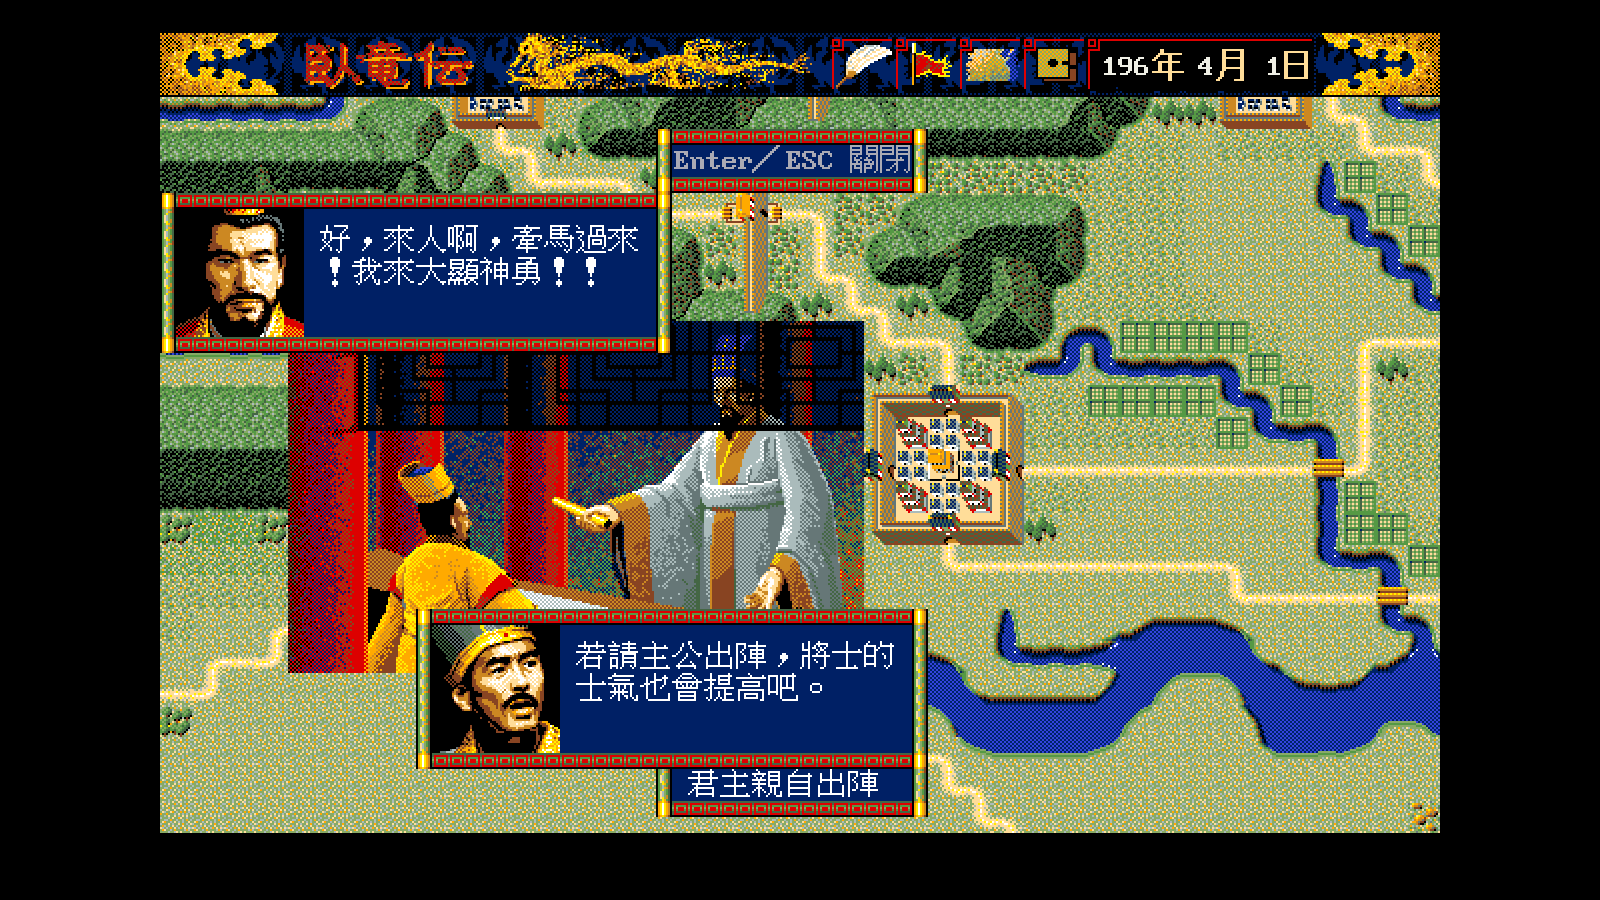
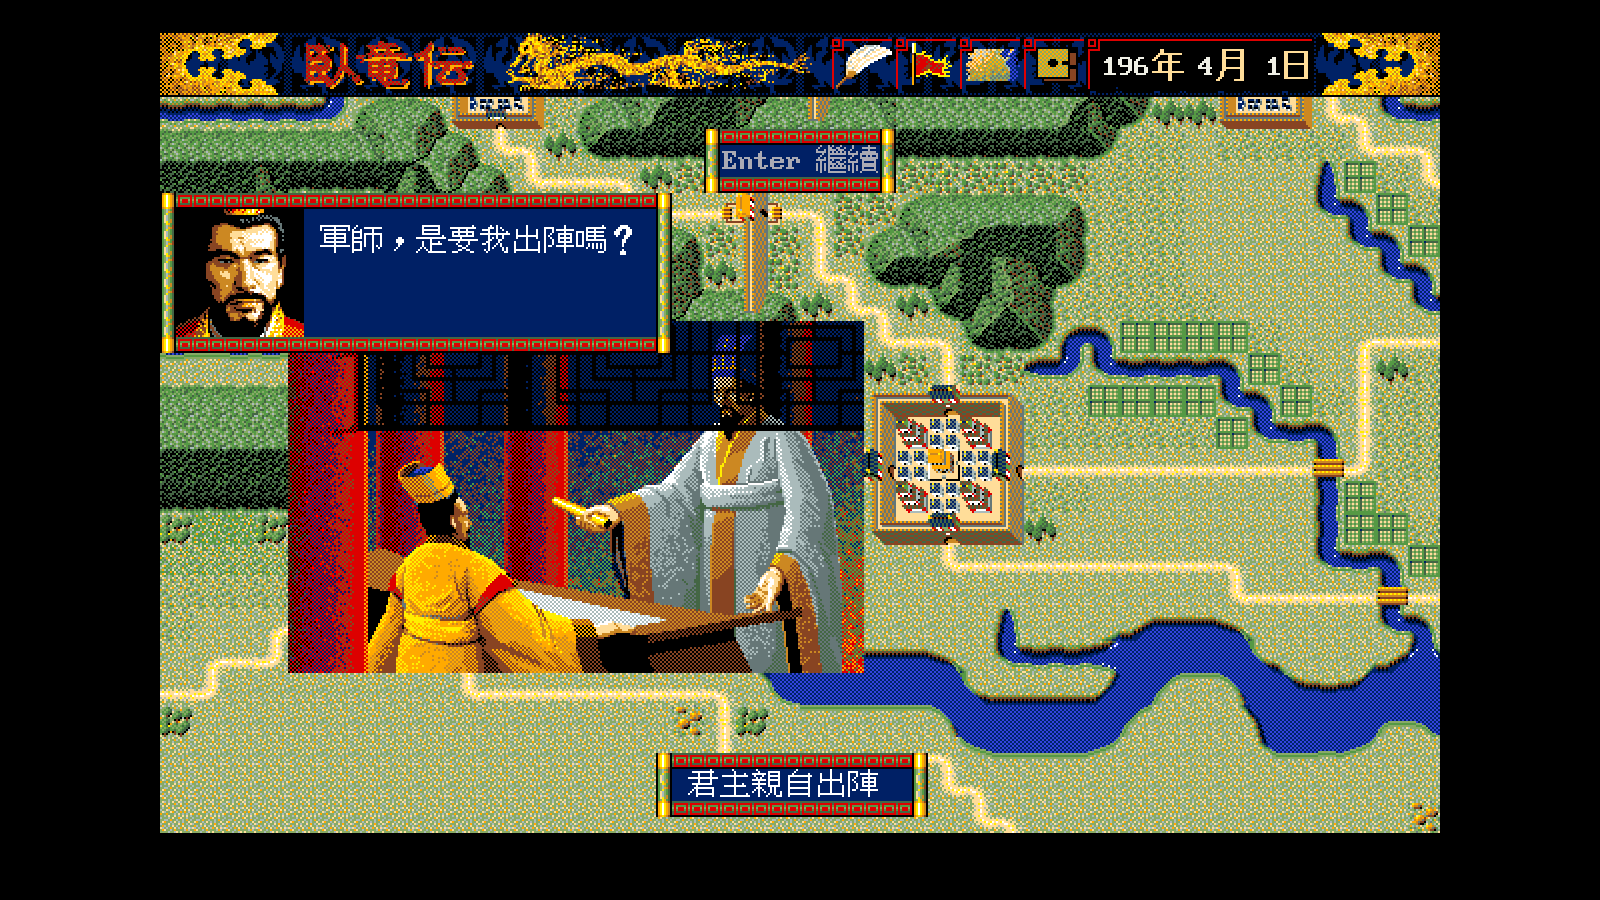
⭐ 進言的逐句節拍：等待藏在自我修改碼裡，不在我原本寫的那兩支
worklist 上寫著下手點是 `sub_10241`／`sub_102C2`。**那兩支是 BGM 的
播與停**（`docs/re/58` §1 早就記著），`sub_13B08` 只是開頭停、
貼完插圖播第 6 曲、結束再停。等待完全不在那裡。

真正的等待在 `sub_13C99` 與 `sub_13CDC` 的結尾：兩支都 `call sub_12216`，
而 `sub_12216` 做的是

    push cs:word_12239
    mov  cs:word_12239, 9090h    ; ★ EB 0F（jmp short +0Fh）→ NOP NOP
    call loc_1222B
    pop  cs:word_12239

⭐ 被跳過的那 15 個 byte 是 `mov ax,5 / mov bx,0 / far call` ＋
`mov bx,1 / far call` 的輸入輪詢。**同一支 `loc_1222B`，
patch 與不 patch 是「等到有輸入」與「把事件跑一遍」兩種行為**——
`sub_18810`（一般通知）直接呼叫它，走的是不等的那一種。

這是本專案第三處自我修改碼，判準一樣是有沒有 `mov cs:[…], imm`
寫進自己的程式碼區段（`CLAUDE.md` §7 第 28 條）。

remake 照做：`adviseSay` 只排隊，`adviseAdvance` 才寫進框裡，
Enter／Space／ESC 推進一句；還在講話時不接受選擇、選單也不畫。
順帶修掉一個現在才看得出來的問題——**還沒講話的框整個不畫**。
原版的框是 `sub_13C99`／`sub_13CDC` 在講那一句時才畫出來的，
先前那個空框把 `IVENTGRF` 的插圖遮掉了一半。

Changed region(s): [[0.25, 0.6533, 0.5938, 0.8711], [0.4062, 0.1244, 0.5938, 0.2178], [0.1875, 0.2489, 0.4062, 0.3111]]

diff --git a/cmd/wlgame/advise.go b/cmd/wlgame/advise.go
@@ -96,21 +96,45 @@ const (
 func (g *game) clearAdviseBoxes() {
 	g.adviseLordSaid = nil
 	g.adviseAdvisorSaid = nil
+	g.adviseQueue = nil
 }
 
-// adviseSay 讓其中一個框說一則 TALK。查不到就維持原來那句，
+// adviseStep 是一句待演的話。**原版每一句演完都停下來等按鍵**
+// （`sub_13C99`／`sub_13CDC` 結尾的 `sub_12216`，docs/spec/45 §1.1），
+// 所以句子要排隊，不能一次全寫進框裡。
+type adviseStep struct {
+	who   adviseSpeaker
+	index int
+}
+
+// adviseSay 把一句排進隊伍。查不到的索引直接不排——
 // **不顯示半句、也不把索引當文字**（同 talkLines 的 fail-closed）。
 func (g *game) adviseSay(who adviseSpeaker, index int) {
-	lines := g.legacyTalkLines(index, g.adviseTalkVars(), talkTextWidth)
-	if len(lines) == 0 {
+	if len(g.legacyTalkLines(index, g.adviseTalkVars(), talkTextWidth)) == 0 {
 		return
 	}
-	if who == adviseLord {
-		g.adviseLordSaid = lines
-		return
-	}
-	g.adviseAdvisorSaid = lines
+	g.adviseQueue = append(g.adviseQueue, adviseStep{who: who, index: index})
 }
+
+// adviseAdvance 演下一句，回傳還有沒有下一句可以演。
+func (g *game) adviseAdvance() bool {
+	if len(g.adviseQueue) == 0 {
+		return false
+	}
+	step := g.adviseQueue[0]
+	g.adviseQueue = g.adviseQueue[1:]
+	lines := g.legacyTalkLines(step.index, g.adviseTalkVars(), talkTextWidth)
+	if step.who == adviseLord {
+		g.adviseLordSaid = lines
+	} else {
+		g.adviseAdvisorSaid = lines
+	}
+	return true
+}
+
+// adviseTalking 回報還有句子沒演完。**還在講話時不接受任何選擇**——
+// 原版也是這樣，選單要等對話走完才出現。
+func (g *game) adviseTalking() bool { return len(g.adviseQueue) > 0 }
 
 // situation 把目前的世界狀態換成說服判定要的局勢。
 //
@@ -208,7 +232,9 @@ func (g *game) updateAdvise() bool {
 	case adviseVerdict:
 		if pressed(ebiten.KeyEscape) || pressed(ebiten.KeyEnter) ||
 			pressed(ebiten.KeySpace) {
-			g.closeAdvise()
+			if !g.adviseAdvance() {
+				g.closeAdvise()
+			}
 		}
 
 	case advisePickAlly, advisePickTarget:
@@ -247,6 +273,13 @@ func (g *game) updateAdvise() bool {
 		}
 
 	case advisePersuade:
+		if g.adviseTalking() {
+			if pressed(ebiten.KeyEnter) || pressed(ebiten.KeySpace) ||
+				pressed(ebiten.KeyEscape) {
+				g.adviseAdvance()
+			}
+			return true
+		}
 		opts := persuasion.Options(g.adviseCmd)
 		switch {
 		case pressed(ebiten.KeyArrowUp):
@@ -330,6 +363,7 @@ func (g *game) sayVerdict(base int, accepted bool) {
 		reply += 3
 	}
 	g.adviseSay(adviseLord, reply+g.playerTalkVariant())
+	g.adviseAdvance()
 }
 
 func (g *game) beginPersuasion() {
@@ -359,6 +393,7 @@ func (g *game) beginPersuasion() {
 			g.commitAdvice()
 		}
 	}
+	g.adviseAdvance() // 先演第一句，其餘等玩家按鍵
 }
 
 func (g *game) offerReason(r persuasion.Reason) {
@@ -377,6 +412,7 @@ func (g *game) offerReason(r persuasion.Reason) {
 	g.adviseSay(adviseAdvisor, base+slot+1)
 	g.adviseSay(adviseLord,
 		adviseReasonReply(base, slot, out, repeat, g.playerTalkVariant()))
+	g.adviseAdvance()
 
 	switch out {
 	case persuasion.Agreed:
@@ -530,6 +566,20 @@ func (g *game) commitAdvice() bool {
 	return true
 }
 
+// drawAdviseBoxes 畫上下兩個講話框。**還沒講話的框不畫**——
+// 原版的框是 `sub_13C99`／`sub_13CDC` 在講那一句時才畫出來的，
+// 不是一直掛在那裡的空框。
+func (g *game) drawAdviseBoxes(screen *ebiten.Image) {
+	if len(g.adviseLordSaid) > 0 {
+		g.drawLegacyTalkBox(screen, talkUpperBoxX, talkUpperBoxY,
+			talkBoxW, talkBoxH, g.adviseLordSaid, g.playerLordPortrait())
+	}
+	if len(g.adviseAdvisorSaid) > 0 {
+		g.drawLegacyTalkBox(screen, talkLowerBoxX, talkLowerBoxY,
+			talkBoxW, talkBoxH, g.adviseAdvisorSaid, g.playerAdvisorPortrait())
+	}
+}
+
 // drawAdvise 畫進言流程。
 func (g *game) drawAdvise(screen *ebiten.Image) {
 	white := color.RGBA{240, 240, 230, 255}
@@ -556,11 +606,12 @@ func (g *game) drawAdvise(screen *ebiten.Image) {
 	case adviseVerdict:
 		// 第四、五項沒有說服迴圈，畫面就是 `sub_13B08` 的三句。
 		g.drawIventScene(screen, 0)
-		g.drawLegacyTalkBox(screen, talkUpperBoxX, talkUpperBoxY,
-			talkBoxW, talkBoxH, g.adviseLordSaid, g.playerLordPortrait())
-		g.drawLegacyTalkBox(screen, talkLowerBoxX, talkLowerBoxY,
-			talkBoxW, talkBoxH, g.adviseAdvisorSaid, g.playerAdvisorPortrait())
-		g.drawLegacyHint(screen, "Enter／ESC 關閉", talkUpperBoxY-4*chrome.Tile)
+		g.drawAdviseBoxes(screen)
+		hint := "Enter／ESC 關閉"
+		if g.adviseTalking() {
+			hint = "Enter 繼續"
+		}
+		g.drawLegacyHint(screen, hint, talkUpperBoxY-4*chrome.Tile)
 
 	case advisePersuade:
 		// 原版的說服畫面（docs/spec/45 §1）：`IVENTGRF` 第 0 頁的插圖，
@@ -573,6 +624,10 @@ func (g *game) drawAdvise(screen *ebiten.Image) {
 			talkBoxW, talkBoxH, g.adviseAdvisorSaid, g.playerAdvisorPortrait())
 		// 提示放在橫幅與上框之間，不要壓到畫面底部的事件視窗。
 		hintY := talkUpperBoxY - 4*chrome.Tile
+		if g.adviseTalking() {
+			g.drawLegacyHint(screen, "Enter 繼續", hintY)
+			return
+		}
 		if g.sess == nil {
 			g.drawLegacyHint(screen, "ESC 關閉", hintY)
 			return

diff --git a/cmd/wlgame/advise_test.go b/cmd/wlgame/advise_test.go
@@ -92,6 +92,7 @@ func TestAdviseLinesComeFromTalkDat(t *testing.T) {
 	for _, c := range adviseCommands {
 		g.clearAdviseBoxes()
 		g.adviseSay(adviseAdvisor, adviseTalkBase(c)+3)
+		g.adviseAdvance()
 		line := strings.Join(g.adviseAdvisorSaid, "")
 		if line == "" {
 			t.Fatalf("%v 的進言句是空的", c)
@@ -262,6 +263,16 @@ func TestAdviseSceneLinesGoToTheRightBox(t *testing.T) {
 	g.clearAdviseBoxes()
 	g.adviseSay(adviseLord, base) // #86「{4}啊，是怎麼了？」
 	g.adviseSay(adviseAdvisor, base+3)
+	// ⭐ 排隊之後畫面上還是空的——**原版每一句都要等按鍵**。
+	if len(g.adviseLordSaid) != 0 || len(g.adviseAdvisorSaid) != 0 {
+		t.Fatal("還沒推進就把句子寫進框裡了")
+	}
+	if !g.adviseAdvance() || !g.adviseAdvance() {
+		t.Fatal("排了兩句卻推不動兩次")
+	}
+	if g.adviseTalking() {
+		t.Error("兩句都演完了還說在講話")
+	}
 	lord, advisor := strings.Join(g.adviseLordSaid, ""), strings.Join(g.adviseAdvisorSaid, "")
 	if lord == "" || advisor == "" {
 		t.Fatalf("兩個框要各有一句：上 %q 下 %q", lord, advisor)
@@ -271,6 +282,7 @@ func TestAdviseSceneLinesGoToTheRightBox(t *testing.T) {
 	}
 	// 君主再說一句：上框換掉，下框不動。
 	g.adviseSay(adviseLord, adviseReplyIndex(base, persuasion.Agree, 0))
+	g.adviseAdvance()
 	if got := strings.Join(g.adviseLordSaid, ""); got == lord {
 		t.Errorf("上框沒有換句：%q", got)
 	}
@@ -279,6 +291,7 @@ func TestAdviseSceneLinesGoToTheRightBox(t *testing.T) {
 	}
 	// 索引查不到時保留原句，不顯示半句（fail-closed）。
 	g.adviseSay(adviseLord, 1<<20)
+	g.adviseAdvance()
 	if len(g.adviseLordSaid) == 0 {
 		t.Error("查不到的索引把上框清空了")
 	}
@@ -346,12 +359,20 @@ func TestVerdictLinesGoToTheRightBoxes(t *testing.T) {
 	if g.advise != adviseVerdict {
 		t.Errorf("階段 = %d，要 adviseVerdict", g.advise)
 	}
+	// sayVerdict 排三句、先演第一句；剩下兩句要按鍵才會出來。
+	if !g.adviseTalking() {
+		t.Fatal("三句應該還沒演完")
+	}
+	for g.adviseAdvance() {
+	}
 	yes := strings.Join(g.adviseLordSaid, "")
 	advisor := strings.Join(g.adviseAdvisorSaid, "")
 	if yes == "" || advisor == "" {
 		t.Fatalf("兩個框要各有一句：上 %q 下 %q", yes, advisor)
 	}
 	g.sayVerdict(adviseSortieTalkBase, false)
+	for g.adviseAdvance() {
+	}
 	if no := strings.Join(g.adviseLordSaid, ""); no == yes {
 		t.Errorf("接受與拒絕拿到同一句：%q", no)
 	}

diff --git a/cmd/wlgame/main.go b/cmd/wlgame/main.go
@@ -224,6 +224,9 @@ type game struct {
 	// adviseNode 是遷都選到的據點（進言第四項）。
 	adviseNode int
 
+	// adviseQueue 是還沒演到的句子（docs/spec/45 §1.1）。
+	adviseQueue []adviseStep
+
 	// 進言畫面上兩個框各自的最新一句（docs/spec/45 §1）。
 	adviseLordSaid    []string // 上框：君主
 	adviseAdvisorSaid []string // 下框：軍師，也就是玩家自己

diff --git a/CONTEXT.md b/CONTEXT.md
@@ -144,6 +144,7 @@ M6 的版面幾何對得上原版，但畫的內容還有缺。**
 | **⭐⭐ 好戰等級找到了：勢力記錄 `+0x28`** | 0–15，呂布 15、曹操 14、劉備 4、劉表 1、劉禪 0。**同一君主跨劇本是常數**，且對上說明書點名的兩個例子。連帶解出勢力表 22 欄位、據點表 `+1`/`+26`、武將表 `+28`。`docs/formats/08` §1.5 |
 | **⭐⭐ 官員的效果在「每小時」不是「每月」** | 先前在月結路徑裡 grep 不到，因為找錯地方。外交官 `sub_13E8E` 已全解並實作（`internal/rules/diplomacy`）：12.5% 動作率、消耗 `23−政治`、成功條件 `rand(0..15) ≤ 政治`、成功 +1 上限 100。**交友度 ＝ 0–100 ＋ 最高位元的交戰旗標** |
 | **⭐ 勢力 `+0x19` ＝ 侵攻目標，財政撐不住就自動取消** | 門檻 `資金>>8 < 據點數×8+24`，與**據點數**掛鉤。這解釋了「敵が疲弊中」為什麼是提停戰的好時機——**疲弊的敵人在機制上已經停止侵攻** |
+| **⭐ 進言的逐句節拍也照原版了** | `docs/spec/45` §1.1。`sub_13C99`／`sub_13CDC` 每一句畫完都 `call sub_12216`，而那一支用**自我修改碼**把 `loc_1222B` 裡的 `jmp short`（`EB 0F`）換成兩個 NOP，打開輸入輪詢——**同一支常式，patch 與不 patch 是「等」與「不等」兩種行為**。remake 改成句子排隊、按鍵推進，還沒講話的框整個不畫。⛔ 先前 worklist 把下手點寫成 `sub_10241`／`sub_102C2`，那兩支是 **BGM 的播與停**（`docs/re/58`）|
 | **⭐⭐ 進言的五項全接上了** | `docs/spec/49`、`docs/playtest/35`。第四項「遷都」的判定（`capital.AcceptRelocation`）先前**寫好了卻沒有任何呼叫端**，第五項「請求君主出陣」整項沒有。兩項都不走說服迴圈——`sub_13B08` 只有三句（上框君主 → 下框軍師 → 上框定案）。出陣的兩道閘：資金 ≥ (15 − 好戰) × 1,024 **而且**預備兵總和 ≥ 600 點；過了就用君主的武將記錄自動編一支**非委任**的軍團。選單五列改讀 `TALK.DAT` #77 |
 | **⭐ 據點被攻陷時內政官會被遣回** | `docs/spec/48`。`sub_14D63` 只動兩個欄位（據點的內政官槽清成 `0xFF`、那名武將的「出陣中」歸零），跳兩則訊息。⚠ 第二則的 `cx = 0x1A6` 是**組編號不是索引**——實際落在 534–541，而 `0x1A6` 的十進位正好是 422、#422 又剛好是「．．．．」，**誤讀在語意上也講得通**（`docs/re/66` §4.1）|
 | **⭐ 據點易主之後守軍會調頭** | `docs/spec/47`。原版開打前用 `sub_14C72` 收「同一格、同一勢力、還活著」的軍團（最多 127 支），只派最強的出戰；城丟了之後 `sub_14DA4` 把整份名單改成「回家的下一站」，退不了的走 `sub_1291A`。`capture` 的順序也照 `sub_14CF3` 排：換旗 → 據點數 −1 → 遷都 → 調頭 → 滅亡 → 新主 +1 |
@@ -394,8 +395,7 @@ M6 的版面幾何對得上原版，但畫的內容還有缺。**
 |---:|---|---|---|
 | **1** | **視窗底紋的 96 列排法** | 點陣**找到了**：`ICONGRF.DAT` 最後 128 byte（段 3 `+0x2320`），32 寬 1bpp，逐列對螢幕 94–99%（`docs/formats/03` §5.5）。但螢幕上的垂直週期是 96，而 24／32 列平鋪與各種磚砌都只有 63–83% 找**取用端**——`KI.EXE` 裡已經排除三條路（沒有立即值、`sub_1F888` 的三個呼叫點都不在段尾、`word_10D50` 的五個用法沒有 `si=1980h`）。剩下掃另外七個執行檔，或對那 128 byte 做動態讀取追蹤 |
 
-| **2** | **進言沒有逐句節拍** | 原版三句（上框 → 下框 → 上框）**要按鍵才往下走**，remake 直接顯示最後的狀態。這是唯一還看得出來的進言差異（`docs/spec/45` §3.1、`docs/playtest/35` §3）| 讀 `sub_10241`／`sub_102C2`——`sub_13B08` 每一句前後各呼叫一次，等待邏輯應該在那裡 |
-| **3** | **進言選單不在原版的位置** | 原版的五項選單在 **(0, 64)**（`sub_16224` 的 `dx = 400h`，粗格 → 像素見 `docs/spec/45` §2.1），而且是指令樹的一層；remake 用自己的小視窗畫在 (40, 60) | 四個階層選單的座標都已經解出來（`docs/spec/45` §2.1 那張表），照著擺就好；要不要一併重做指令樹是另一回事 |
+| **2** | **進言選單不在原版的位置** | 原版的五項選單在 **(0, 64)**（`sub_16224` 的 `dx = 400h`，粗格 → 像素見 `docs/spec/45` §2.1），而且是指令樹的一層；remake 用自己的小視窗畫在 (40, 60) | 四個階層選單的座標都已經解出來（`docs/spec/45` §2.1 那張表），照著擺就好；要不要一併重做指令樹是另一回事 |
 
 > 順序是使用者裁定 2026-08-16：先把行軍指示的三選一串起來（**已完成**），
 > 再做戰場圖塊組顏色（**已驗，是假問題**）與視窗底紋

diff --git a/docs/re/43-open-questions.md b/docs/re/43-open-questions.md
@@ -21,10 +21,10 @@
 | 規則正確性 | 54 | 52 | 2 | 0 |
 | 資料保存 | 37 | 37 | 0 | 0 |
 | 程式碼理解 | 217 | 210 | 7 | 0 |
-| 驗收 | 60 | 53 | 7 | 0 |
+| 驗收 | 59 | 52 | 7 | 0 |
 | 外部資料 | 17 | 16 | 0 | 1 |
-| 其他 | 109 | 104 | 5 | 0 |
-| **合計** | **494** | 472 | 21 | 1 |
+| 其他 | 108 | 103 | 5 | 0 |
+| **合計** | **492** | 470 | 21 | 1 |
 
 ## 2.1 規則正確性（54 條）
 
@@ -349,7 +349,7 @@
 | [`re/66-message-box-geometry.md`](../re/66-message-box-geometry.md) | `sub_189A4(al=1, dx=0, bx=2, cx=151Bh)` | `sub_13D09` 在貼完 `IVENTGRF` 之後畫的框，與 `sub_1895D` 是不是同一組單位沒驗 | 靜態 |
 | [`re/66-message-box-geometry.md`](../re/66-message-box-geometry.md) | `IVENTGRF` 插圖本身的位置 | `sub_13D09` 的 `dx = 0E07h` 是餵給 `sub_1E38C`（讀檔）的參數，不是座標。插圖在畫面上的位置沒量 | 靜態 |
 
-## 2.4 驗收（60 條）
+## 2.4 驗收（59 條）
 
 | 出處 | 缺口 | 現況 | 裁決 |
 |---|---|---|---|
@@ -410,7 +410,6 @@
 | [`playtest/34-advise-scene-screens.md`](../playtest/34-advise-scene-screens.md) | 逐句節拍 | 原版每句要等玩家按鍵才往下走；remake 直接顯示最新一句 | 靜態 |
 | [`playtest/34-advise-scene-screens.md`](../playtest/34-advise-scene-screens.md) | 插圖之外的畫面 | 原版這一頁底下是不是還留著大地圖沒驗過，remake 留著 | 靜態 |
 | [`playtest/34-advise-scene-screens.md`](../playtest/34-advise-scene-screens.md) | 選單的反白樣式 | 原版怎麼畫游標列沒解，remake 用自己的反白條 ＋ `>` | 靜態 |
-| [`playtest/35-advise-verdict-screens.md`](../playtest/35-advise-verdict-screens.md) | 逐句節拍 | 原版三句要按鍵才往下走，remake 直接顯示最後的狀態（上框是 ③、下框是 ②） | 靜態 |
 | [`playtest/35-advise-verdict-screens.md`](../playtest/35-advise-verdict-screens.md) | 遷都的畫面 | 目標用一覽表挑，原版是地圖選點（`sub_17400`）。沒有截圖 | 實測 |
 | [`playtest/35-advise-verdict-screens.md`](../playtest/35-advise-verdict-screens.md) | 選單的位置 | 原版的進言選單在 (0, 64)（`sub_16224` 的 `dx = 400h`，`docs/spec/45` §2.1），remake 用自己的小視窗 | 靜態 |
 
@@ -436,7 +435,7 @@
 | [`reference/04-first-survey.md`](../reference/04-first-survey.md) | FM 3 聲 ＋ SSG 3 聲，埠 `0x188`／`0x18A`。 DOS/V 側未解。 | （散句） | 靜態 |
 | [`reference/05-eten-font-provenance.md`](../reference/05-eten-font-provenance.md) | `END_S13/S14/S15` 是中文版加的結局段 | S13／S14 是字型。**`END_S15` 仍未解** | 靜態 |
 
-## 2.6 其他（109 條）
+## 2.6 其他（108 條）
 
 | 出處 | 缺口 | 現況 | 裁決 |
 |---|---|---|---|
@@ -535,7 +534,6 @@
 | [`spec/43-rout-on-blocked-return.md`](../spec/43-rout-on-blocked-return.md) | TALK #1F／#20／#23／#198 | remake 還沒把這四則接上 | 靜態 |
 | [`spec/44-advise-original-text.md`](../spec/44-advise-original-text.md) | 逐句節拍 | 原版每句要等玩家按鍵才往下走，remake 直接顯示最新一句（`45` §3.1） | 靜態 |
 | [`spec/44-advise-original-text.md`](../spec/44-advise-original-text.md) | 「這項進言沒有成立」 | remake 專屬的守門句：君主點頭之後規則層才發現條件變了。原版沒有這條路徑，所以沒有對應的原文 | 靜態 |
-| [`spec/45-advise-scene-layout.md`](../spec/45-advise-scene-layout.md) | 逐句節拍 | 原版每句要等玩家按鍵，`sub_10241`／`sub_102C2` 那一段還沒讀 | 靜態 |
 | [`spec/45-advise-scene-layout.md`](../spec/45-advise-scene-layout.md) | 選單的反白樣式 | 原版怎麼畫游標列沒解，remake 用自己的反白條 | 靜態 |
 | [`spec/46-post-battle-retreat.md`](../spec/46-post-battle-retreat.md) | `loc_1491B` 的方向回傳 | `±4` 決定讀哪一個鄰接槽，remake 用 `Route` 的第 2 個節點取代，沒有逐條對過兩者選的是不是同一站 | 靜態 |
 | [`spec/46-post-battle-retreat.md`](../spec/46-post-battle-retreat.md) | 野外那一格的鄰接槽 | remake 的 `Node` 在行軍途中停在上一個據點，所以走的是「從上一個據點找路」，不是原版的「從野外那一格的鄰接槽挑」 | 靜態 |

diff --git a/docs/spec/45-advise-scene-layout.md b/docs/spec/45-advise-scene-layout.md
@@ -29,6 +29,33 @@
 
 三個講話框的寬高完全一樣（`sub_1075B` 把 `cx = 0510h` 寫死），只有位置不同。
 
+### 1.1 每一句都停下來等按鍵
+
+`sub_13C99` 與 `sub_13CDC` 畫完之後都 `call sub_12216`：
+
+```asm
+00012216  push cs:word_12239
+0001221B  mov  cs:word_12239, 9090h   ; ★ 把兩個 byte 換成 NOP NOP
+00012222  call loc_1222B
+00012225  pop  cs:word_12239          ; 換回來
+```
+
+`0x12239` 的靜態內容是 `EB 0F`（`jmp short +0Fh`），
+patch 成 `90 90` 之後那 15 個 byte 才會執行——而那一段是
+`mov ax, 5 / mov bx, 0 / far call`＋`mov bx, 1 / far call` 的**輸入輪詢**。
+
+⭐ **同一支 `loc_1222B` 有兩種模式**：不 patch 就只是把事件跑一遍，
+patch 成 NOP 就變成「等到有輸入為止」。`sub_18810`（一般通知）
+直接呼叫 `loc_1222B`，走的是不等的那一種。
+
+> ⚠ 這是本專案第三處自我修改碼（`CLAUDE.md` §7 第 28 條）。
+> IDA 把 `0x1223B` 之後整段 render 成 `db`，判準一樣是
+> 有沒有 `mov cs:[…], imm` 寫進自己的程式碼區段。
+
+⛔ **`sub_10241`／`sub_102C2` 不是等待**——那是 BGM 的播與停
+（[`../re/58`](../re/58-bgm-scene-mapping.md) §1），`sub_13B08` 開頭停、
+貼完插圖播第 6 曲、結束再停。
+
 ## 2. 選單框：(80, 176) 160×96，五列
 
 `sub_13B7E` 是三個地方共用的選單：外交三選一（`sub_13902`）、
@@ -100,7 +127,9 @@ dh = 0Bh ⇒ y = 11 × 16 = 176
 | 項目 | 作法 |
 |---|---|
 | 說服畫面 | `drawAdvise` 的 `advisePersuade` 畫 composite：`drawIventScene(0)` ＋ 兩個 `drawLegacyTalkBox` ＋ `drawLegacyChoiceBox` |
-| 兩個框的內容 | `game.adviseLordSaid`／`adviseAdvisorSaid` 各存**一句**（已折好的行）；`adviseSay(who, index)` 換掉其中一個 |
+| 兩個框的內容 | `game.adviseLordSaid`／`adviseAdvisorSaid` 各存**一句**（已折好的行）|
+| 逐句節拍 | `adviseSay` 只**排隊**，`adviseAdvance` 才寫進框裡。Enter／Space／ESC 推進一句；還在講話時不接受任何選擇，選單也不畫（§1.1）|
+| 空框不畫 | 還沒講話的框整個不畫——原版的框是講那一句時才畫出來的 |
 | 說話者 | 靠框的位置與肖像，句子裡沒有標記。上框 `playerLordPortrait()`、下框 `playerAdvisorPortrait()` |
 | 選單框 | `talkChoiceW/H = 160 × 96`、`talkChoiceRows = 5`；`drawLegacyChoiceBox` 與 `talkChoiceClick` 都用 `talkChoiceRows` |
 | 能選幾列 | `talkChoiceClick(rows)` 由呼叫端傳——說服 5、外交與撥款 3，對應原版的 `al`（§2.2）|
@@ -112,8 +141,6 @@ dh = 0Bh ⇒ y = 11 × 16 = 176
 
 - **選指令那一階段**（敵對／停戰／協力）仍是自己的小視窗。
   原版走的是戰略指令樹（`docs/re/22`），那一層還沒重做。
-- **原版一次只顯示一句、按鍵才往下走**；remake 沒有這個逐句節拍，
-  兩個框直接顯示最新一句。
 - **按鍵提示**是 remake 加的細框，放在橫幅與上框之間——
   畫面底部 360–392 是事件視窗的位置，放那裡會疊在一起。
 
@@ -130,5 +157,4 @@ dh = 0Bh ⇒ y = 11 × 16 = 176
 
 | 項目 | 現況 |
 |---|---|
-| 逐句節拍 | 原版每句要等玩家按鍵，`sub_10241`／`sub_102C2` 那一段還沒讀 |
 | 選單的反白樣式 | 原版怎麼畫游標列沒解，remake 用自己的反白條 |

diff --git a/docs/playtest/35-advise-verdict-screens.md b/docs/playtest/35-advise-verdict-screens.md
@@ -31,7 +31,11 @@
 
 ## 2. 請求君主出陣
 
-![請求君主出陣的定案](../images/wlgame-advise-sortie-verdict.png)
+![請求君主出陣的第一句](../images/wlgame-advise-sortie-verdict.png)
+
+截圖停在**第一句**——`sub_12216` 讓原版每一句都等按鍵，
+remake 照做了（[`../spec/45`](../spec/45-advise-scene-layout.md) §1.1），
+所以還沒講話的下框整個不畫。
 
 三句都對得上（`sub_13B08`，[`../spec/49`](../spec/49-advise-relocate-and-sortie.md) §1）：
 
@@ -53,6 +57,5 @@
 
 | 項目 | 現況 |
 |---|---|
-| 逐句節拍 | 原版三句要按鍵才往下走，remake 直接顯示最後的狀態（上框是 ③、下框是 ②）|
 | 遷都的畫面 | 目標用一覽表挑，原版是地圖選點（`sub_17400`）。沒有截圖 |
 | 選單的位置 | 原版的進言選單在 (0, 64)（`sub_16224` 的 `dx = 400h`，`docs/spec/45` §2.1），remake 用自己的小視窗 |
